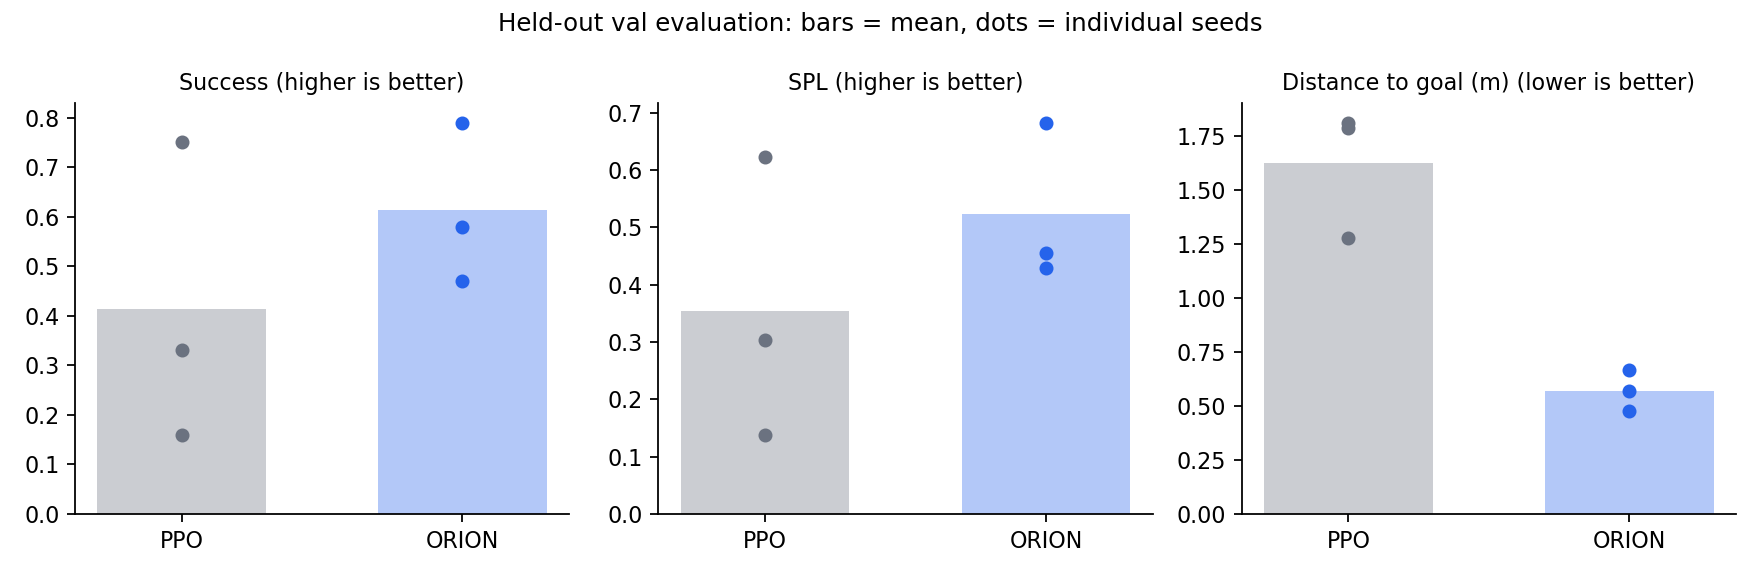
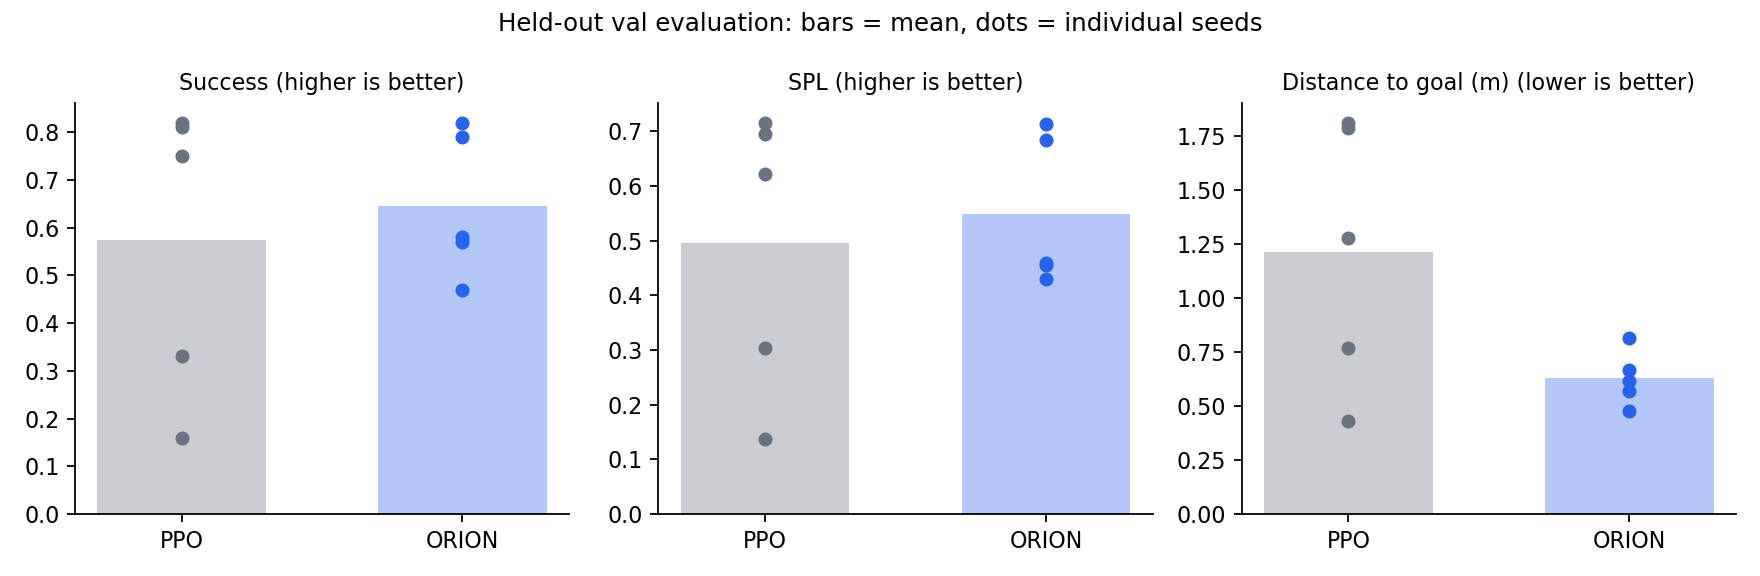
ORION: 5-seed results (mean gain not significant; robustness/variance finding)

diff --git a/analyze_orion.py b/analyze_orion.py
@@ -40,7 +40,7 @@ def scalars(logdir, tag):
     ev = ea.Scalars(tag)
     return np.array([e.step for e in ev]), np.array([e.value for e in ev])
 
-def smooth(y, k=15):
+def smooth(y, k=51):
     if len(y) < k: return y
     return np.convolve(np.pad(y, (k // 2, k - 1 - k // 2), mode="edge"), np.ones(k) / k, mode="valid")
 

diff --git a/results/summary.md b/results/summary.md
@@ -1,19 +1,19 @@
 # ORION results (held-out val split)
 
-Seeds: PPO = 3, ORION = 3. Mean +/- std across seeds.
+Seeds: PPO = 5, ORION = 5. Mean +/- std across seeds.
 
 | Method | Success (higher better) | SPL (higher better) | Distance to goal (m) (lower better) |
 |---|---|---|---|
-| PPO (baseline) | 0.413 +/- 0.304 | 0.354 +/- 0.246 | 1.627 +/- 0.302 |
-| PPO + ORION | 0.613 +/- 0.163 | 0.523 +/- 0.140 | 0.571 +/- 0.095 |
+| PPO (baseline) | 0.574 +/- 0.307 | 0.495 +/- 0.260 | 1.216 +/- 0.614 |
+| PPO + ORION | 0.646 +/- 0.152 | 0.548 +/- 0.138 | 0.629 +/- 0.125 |
 
 ## Welch t-test (ORION vs PPO)
 
 | Metric | Diff in mean | t | df | p |
 |---|---|---|---|---|
-| Success | +0.200 | 1.01 | 3.1 | 0.387 |
-| SPL | +0.169 | 1.03 | 3.2 | 0.375 |
-| Distance to goal (m) | -1.056 | -5.78 | 2.4 | 0.019 |
+| Success | +0.072 | 0.47 | 5.8 | 0.656 |
+| SPL | +0.053 | 0.40 | 6.1 | 0.699 |
+| Distance to goal (m) | -0.587 | -2.10 | 4.3 | 0.099 |
 
 ## Per-run values
 
@@ -22,6 +22,10 @@ Seeds: PPO = 3, ORION = 3. Mean +/- std across seeds.
 | ppo_s1 | 0.7500 | 0.6221 | 1.2789 |
 | ppo_s2 | 0.1600 | 0.1374 | 1.7869 |
 | ppo_s3 | 0.3300 | 0.3029 | 1.8143 |
+| ppo_s4 | 0.8200 | 0.6956 | 0.4305 |
+| ppo_s5 | 0.8100 | 0.7158 | 0.7677 |
 | orion_s1 | 0.5800 | 0.4556 | 0.5720 |
 | orion_s2 | 0.4700 | 0.4293 | 0.6655 |
 | orion_s3 | 0.7900 | 0.6831 | 0.4752 |
+| orion_s4 | 0.5700 | 0.4586 | 0.8141 |
+| orion_s5 | 0.8200 | 0.7136 | 0.6167 |
